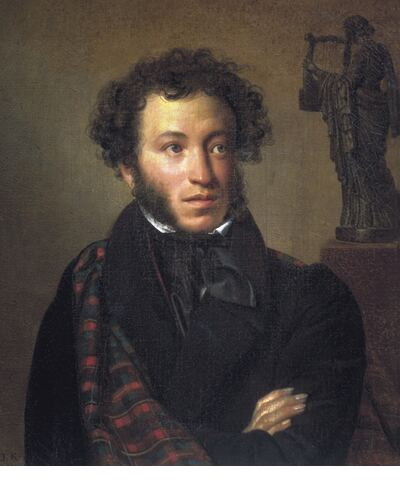
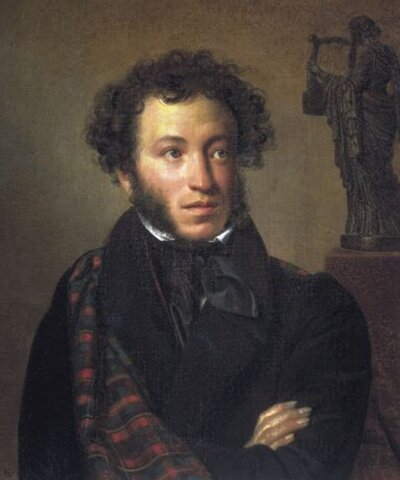
Fix the landing's design review: hero title, screenshot size, dark mode, FAQ
The hero title fits in three lines and keeps the marked promise on one.
The screenshots are cropped to 3:2 from the top so they fit a laptop
screen, and get dark twins through <picture>; the dark marker and yellow
band move from olive to a warm amber that light text reads on. The FAQ
stacks in two independent columns, so opening a question no longer moves
its neighbour, and each question shows a + that turns into ×. Also crops
a white strip off the bottom of the Pushkin portrait.

diff --git a/app/assets/stylesheets/landing.css b/app/assets/stylesheets/landing.css
@@ -102,7 +102,7 @@
   padding-block: calc(var(--block-space-double) * 2.5) calc(var(--block-space-double) * 3);
 
   h1 {
-    font-size: clamp(2.25rem, 1.5rem + 3vw, 3.5rem);
+    font-size: clamp(2.25rem, 1.25rem + 2.4vw, 3.125rem);
     font-weight: 800;
     letter-spacing: -0.03em;
     line-height: 1.08;
@@ -111,7 +111,11 @@
   }
 
   @media (min-width: 60rem) {
-    grid-template-columns: minmax(0, 1.1fr) minmax(0, 1fr);
+    grid-template-columns: minmax(0, 1.4fr) minmax(0, 1fr);
+
+    mark {
+      white-space: nowrap;
+    }
   }
 }
 
@@ -360,10 +364,17 @@
   max-inline-size: 56rem;
   overflow: hidden;
 
+  picture {
+    display: block;
+  }
+
   img {
+    aspect-ratio: 3 / 2;
     block-size: auto;
     display: block;
     inline-size: 100%;
+    object-fit: cover;
+    object-position: top;
   }
 }
 
@@ -523,6 +534,7 @@
 }
 
 .landing-faq {
+  align-items: start;
   column-gap: calc(var(--block-space-double) * 1.5);
   display: grid;
   grid-template-columns: repeat(auto-fit, minmax(min(100%, 24rem), 1fr));
@@ -533,8 +545,27 @@
   }
 
   summary {
+    align-items: baseline;
     cursor: pointer;
+    display: flex;
     font-weight: 600;
+    gap: var(--inline-space);
+    justify-content: space-between;
+    list-style: none;
+
+    &::-webkit-details-marker {
+      display: none;
+    }
+  }
+
+  summary .icon {
+    color: var(--color-muted);
+    flex-shrink: 0;
+    transition: rotate var(--duration-medium) var(--ease-out-expo);
+  }
+
+  details[open] summary .icon {
+    rotate: 45deg;
   }
 
   details p {

diff --git a/app/assets/stylesheets/colors.css b/app/assets/stylesheets/colors.css
@@ -94,8 +94,8 @@
     --lch-green-light: 30% 0.03 135;
     --lch-red: 70% 0.14 30;
     --lch-red-light: 28% 0.04 30;
-    --lch-yellow: 60% 0.1 95;
-    --lch-yellow-light: 30% 0.04 95;
+    --lch-yellow: 45% 0.09 75;
+    --lch-yellow-light: 27% 0.04 75;
     --lch-cream: 19% 0.016 70;
     --lch-blue: 58% 0.07 229.68;
     --lch-pink: 58% 0.09 343.07;

diff --git a/test/controllers/landing_controller_test.rb b/test/controllers/landing_controller_test.rb
@@ -30,6 +30,19 @@ class LandingControllerTest < ActionDispatch::IntegrationTest
     assert_select "#letter .avatar", text: "AY"
   end
 
+  test "the screenshots have dark twins for dark mode" do
+    get root_url
+    assert_select ".landing-window picture", 2
+    assert_select ".landing-window picture source[media='(prefers-color-scheme: dark)']", 2
+  end
+
+  test "the questions stack in two independent columns, each marked as expandable" do
+    get root_url
+    assert_select ".landing-faq > .landing-faq__column", 2
+    assert_select ".landing-faq__column details", 6
+    assert_select ".landing-faq summary .icon", 6
+  end
+
   test "the map is advertised only when the install has one" do
     get root_url
     assert_select ".landing-features h3", text: I18n.t("landing.features.map_title")

diff --git a/app/helpers/landing_helper.rb b/app/helpers/landing_helper.rb
@@ -8,4 +8,11 @@ module LandingHelper
       initials_avatar name, class: "landing-letter__photo"
     end
   end
+
+  def landing_screenshot(name, alt:)
+    tag.picture do
+      tag.source(srcset: image_path("landing/#{name}.#{I18n.locale}.dark.png"), media: "(prefers-color-scheme: dark)") +
+        image_tag("landing/#{name}.#{I18n.locale}.png", alt:, loading: "lazy", width: 940, height: 917)
+    end
+  end
 end

diff --git a/docs/features/landing.md b/docs/features/landing.md
@@ -18,15 +18,19 @@ guest. Guests get Russian or English from `Accept-Language` until they pick one.
 ## The story, top to bottom
 The page is a run of full-width bands, each with its own shape, so the eye never reads the same
 three-column grid twice. Warm paper (`--color-cream`) alternates with the white surface.
-1. **Hero** (cream) — the promise in one line, its last words under the yellow marker (`<mark>`):
+1. **Hero** (cream) — the promise in three lines at most, its last words under the yellow marker
+   (`<mark>`, kept on one line on wide screens):
    *collect the family's story together, while there's still someone to ask.* CTA
    "Начать бесплатно" → `/registration`; "Войти" in the header. Beside it a **family album**, not
    the interface: the Pushkins' public-domain portraits (Kiprensky and others) as a person card
-   with dates, and two notes the family "left" — the sister adding a portrait, the brother naming
-   the birthplace. It shows the feeling (relatives filling one story) before the product.
+   with dates, and two notes the family "left" — the sister adding a portrait, the brother giving
+   the birthday. It shows the feeling (relatives filling one story) before the product.
 2. **Now → with Heartwood** — the pain as a before/after: stories in someone's head, photos in
    chats, everyone with one piece → one tree everyone adds to.
 3. **How it works** — three numbered steps, then the real tree screenshot in a window frame.
+   Screenshots are cropped to 3:2 from the top so they never outgrow a laptop screen, and each
+   has a dark twin (`*.dark.png`, served by `<picture>` under `prefers-color-scheme: dark`):
+   a light app window on a dark page glares.
 4. **Why it matters** (yellow band) — the Duke & Fivush finding as a large pull quote, then
    three short reasons.
 5. **What's inside** — only shipped features, icons in a list beside the profile screenshot.
@@ -38,7 +42,8 @@ three-column grid twice. Warm paper (`--color-cream`) alternates with the white 
    where it's true.
 8. **Pricing** — two plan cards (a collection, so cards are right): Free up to
    `Tree::PLANS["free"][:people_limit]` people; Family without limits.
-9. **FAQ** — `details/summary` in two columns, no JS.
+9. **FAQ** — `details/summary` in two independent columns (opening one never moves the other),
+   a `+` that turns into `×` when open, no JS.
 10. **Final CTA** band, then the footer with the operator, legal documents and source link.
 
 ## Rules
